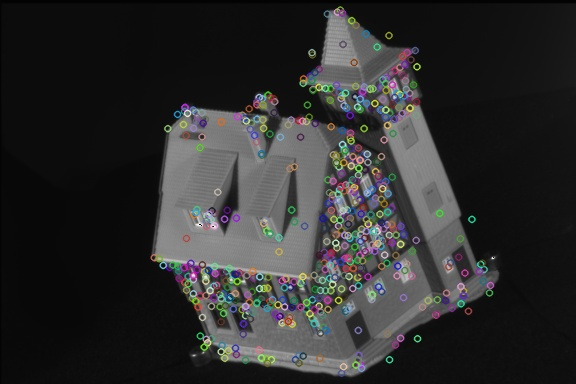
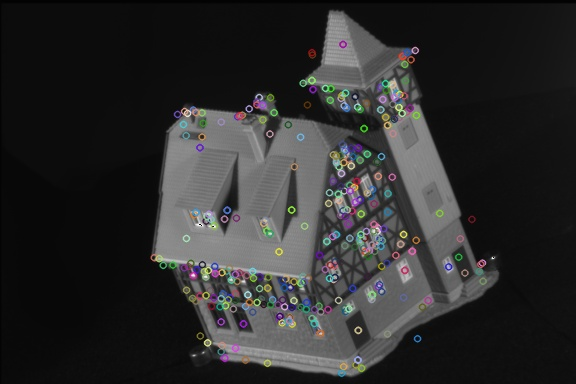
modificación readme

diff --git a/hipergraphCpp/hipergraph.cpp b/hipergraphCpp/hipergraph.cpp
@@ -176,7 +176,7 @@ int main(int argc, const char *argv[]){
   // prueba2.at<float>(3,3)=0.0;
 
 
-  SiftFeatureDetector detector;
+  SiftFeatureDetector detector(4);
 
   vector<KeyPoint> keypoints;
   vector<KeyPoint> keypoints1;
